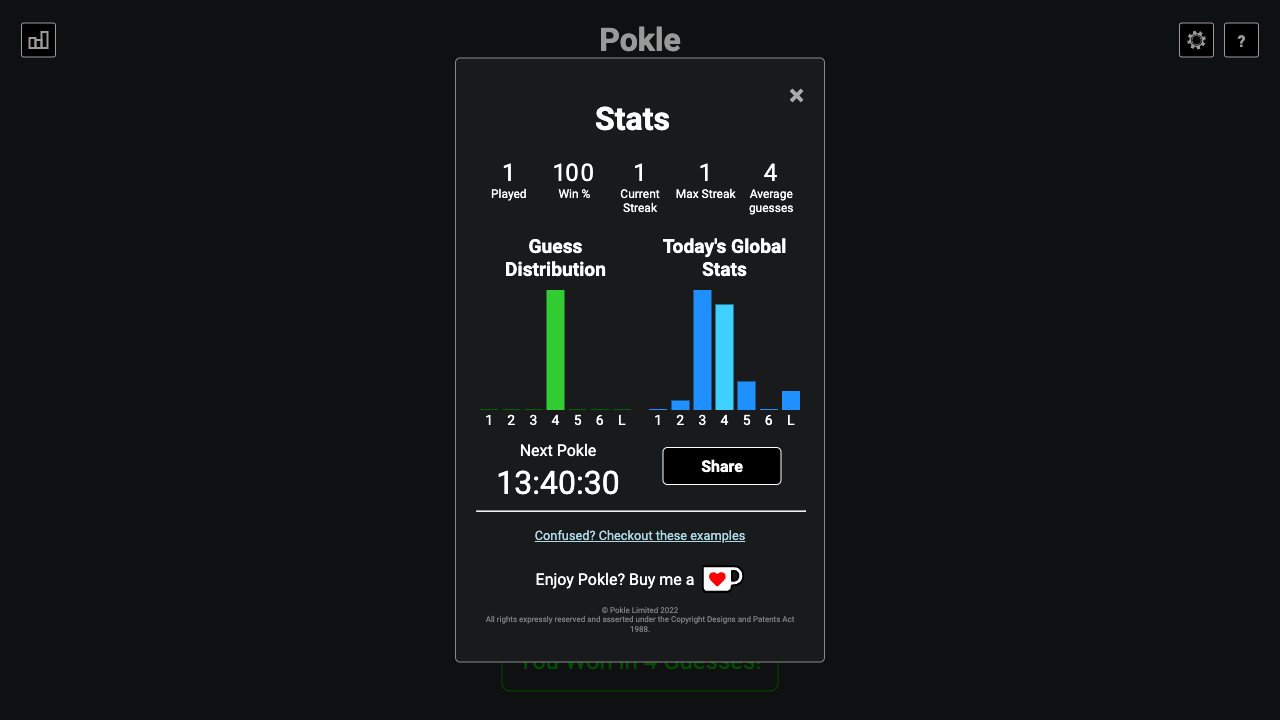
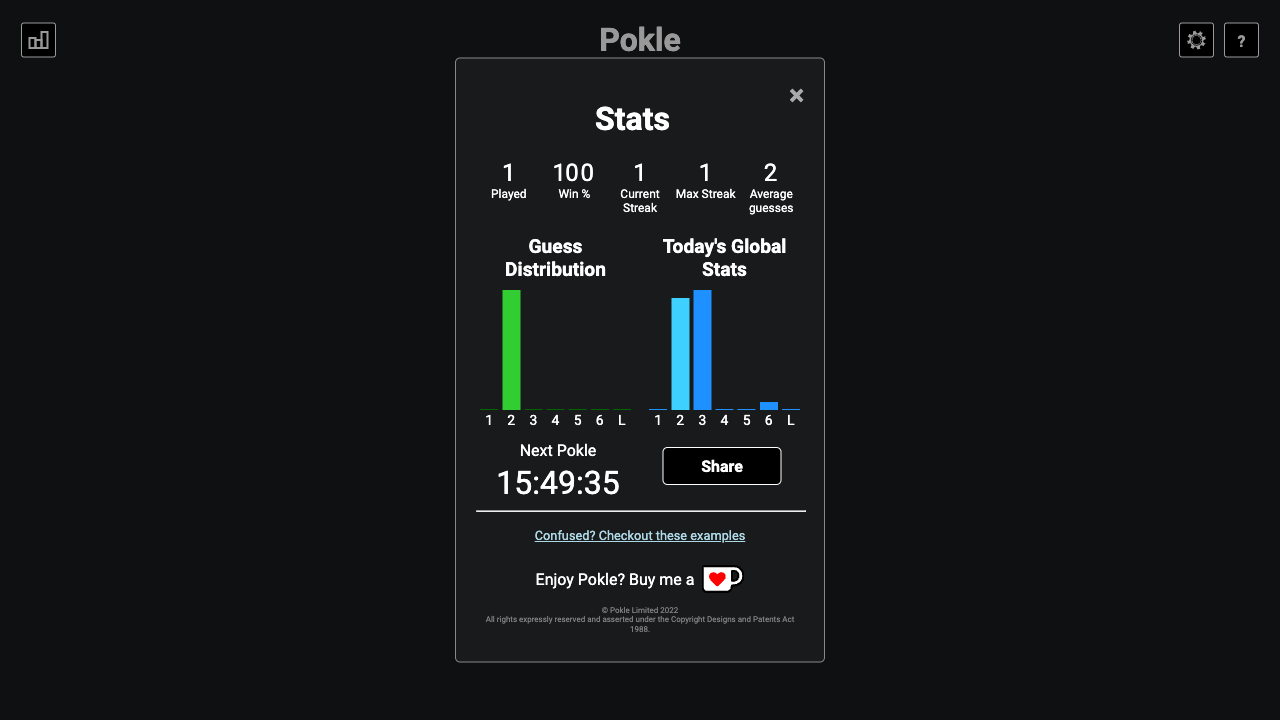
todays game

diff --git a/src/bot/index.ts b/src/bot/index.ts
@@ -12,6 +12,8 @@ import {
   getSlowkingRecommendation,
   getUnrestrictedRecommendation,
 } from "./unrestricted";
+import { Card } from "../poker/Card";
+import { BoardCards } from "../poker/Poker";
 
 export type Mode =
   | "random"
@@ -41,6 +43,7 @@ const getGreediness = (guessNumber: number): Greediness => {
 
 export const getRecommendation = memoize(
   async (mode: Mode, guessNumber: number, pokle: Pokle) => {
+    // shortcut for when there's only one board left
     if (pokle.remainingBoards?.length === 1) {
       return {
         choice: pokle.remainingBoards[0],
@@ -49,6 +52,37 @@ export const getRecommendation = memoize(
         recommendationIndex: 1,
       };
     }
+
+    // shortcut for when there are only two boards left and they are both ok thanks to autocorrect
+    if (pokle.remainingBoards?.length === 2) {
+      const mutualResult = Pokle.getBoardPattern(
+        pokle.remainingBoards[0],
+        pokle.remainingBoards[1],
+        pokle.remainingBoards as BoardCards[]
+      ).join("");
+      const autocorrected = mutualResult === "🟩🟩🟩🟩🟩";
+      if (autocorrected) {
+        return {
+          choice: pokle.remainingBoards[0],
+          entropy: NaN,
+          probabilityOfBeingAnswer: 1,
+          recommendationIndex: 1,
+        };
+      }
+    }
+
+    // shortcut for slowking when generating stats
+    // if (pokle.remainingBoards?.length === 216) {
+    //   return {
+    //     choice: ["5♣", "5♥", "5♦", "9♦", "8♥"].map((c) =>
+    //       Card.fromString(c as any)
+    //     ) as BoardCards,
+    //     entropy: NaN,
+    //     probabilityOfBeingAnswer: NaN,
+    //     recommendationIndex: NaN,
+    //   };
+    // }
+
     // increase greediness each turn
     const greediness: Greediness = getGreediness(guessNumber);
     const recommendation = (() => {
